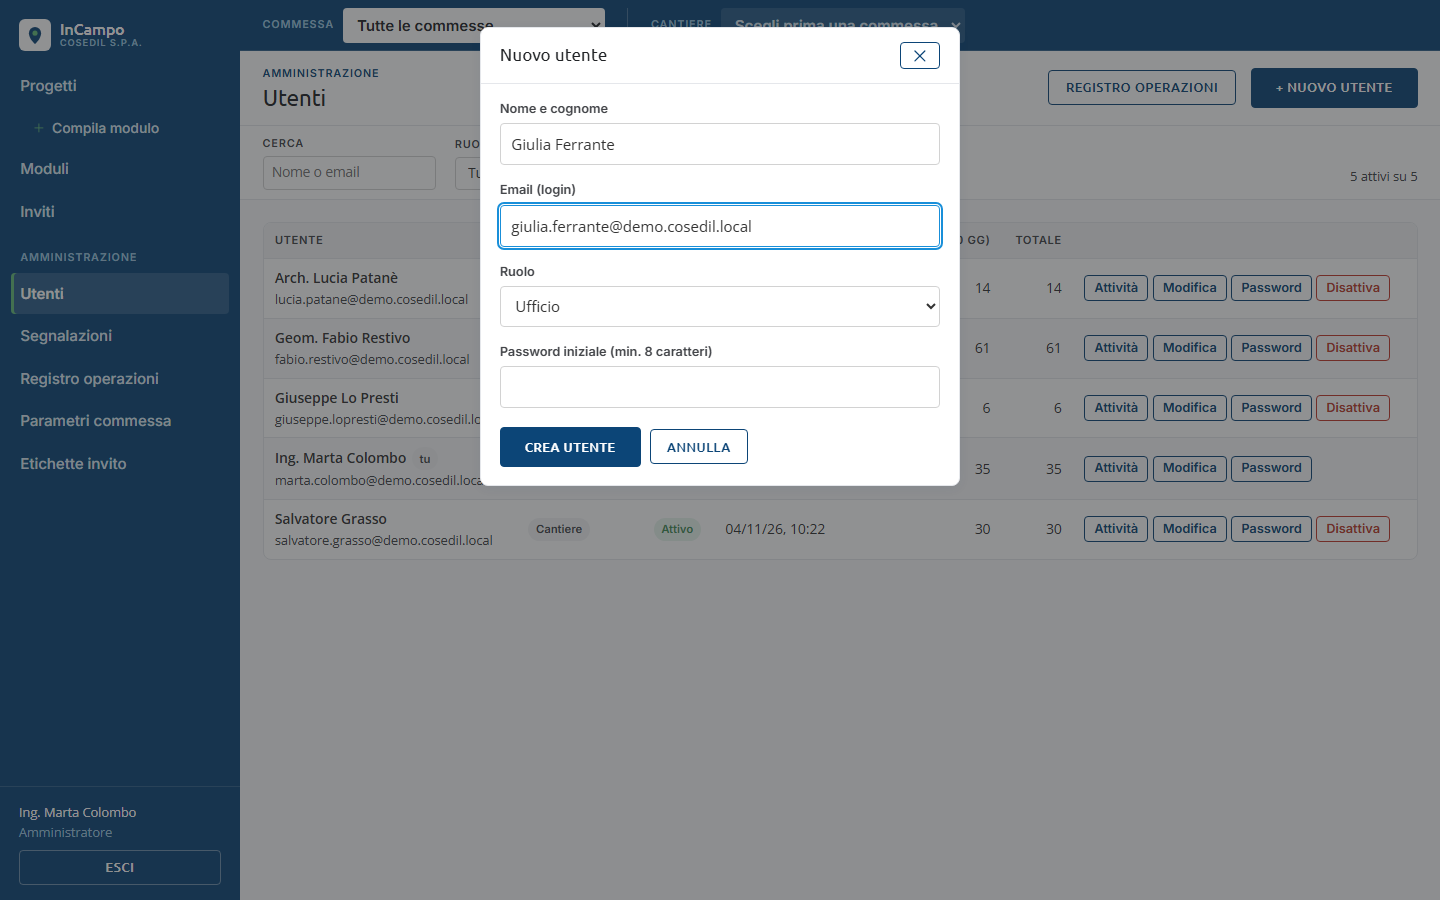
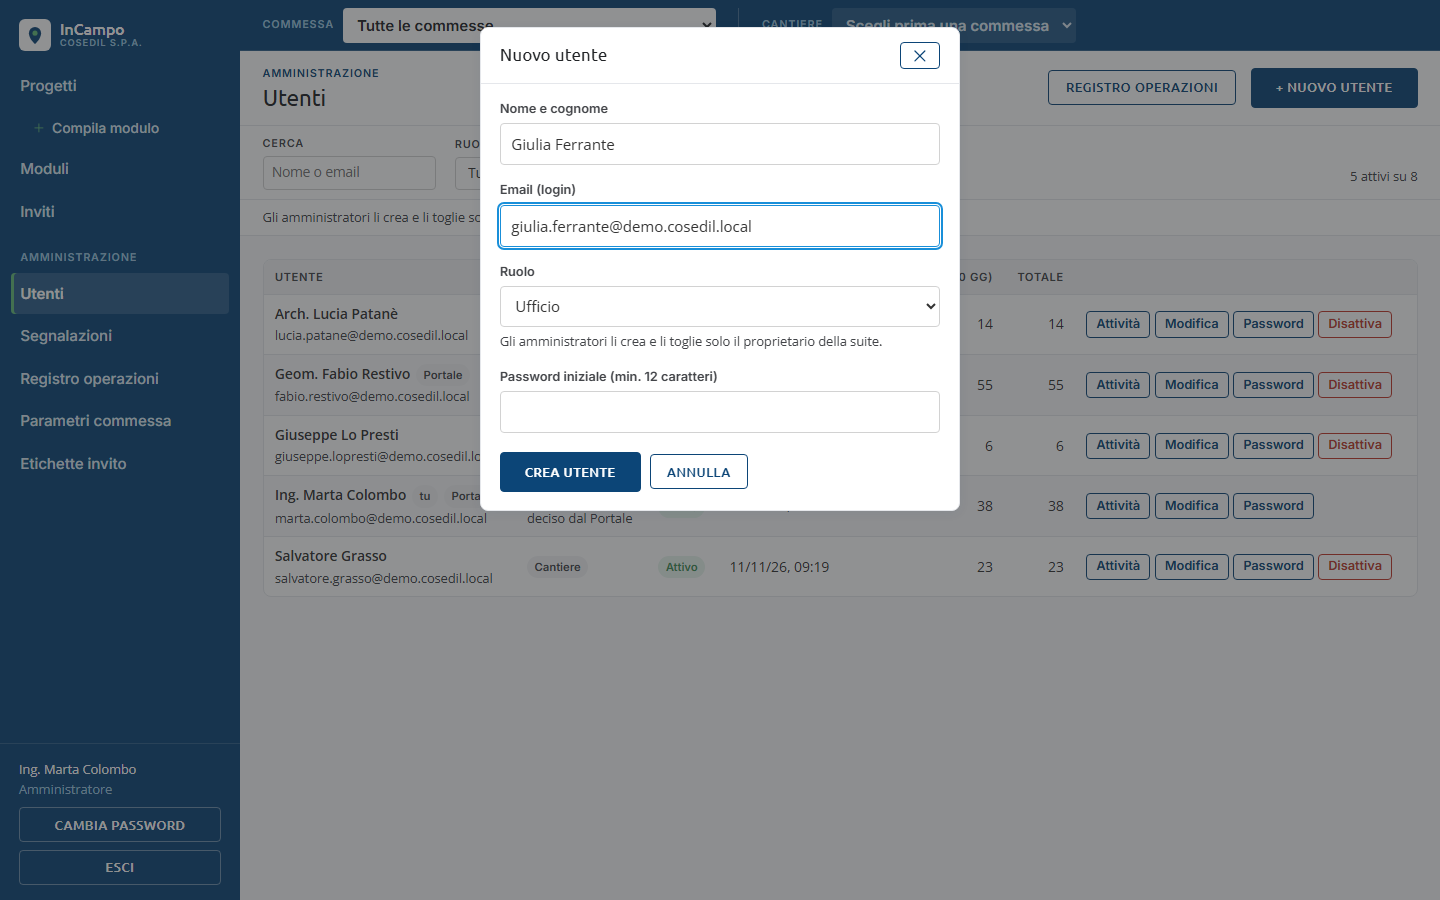
docs(incampo): guida, guida-admin e README-SUITE sugli admin decisi dal portale
Capitoli 01-accesso e 10-amministrazione, guida-admin e README-SUITE: collegamento al
portale per username, controllo del profilo a ogni login, admin dato e tolto dal portale e
gestito solo dal proprietario. Immagini 10-utenti e 10-nuovo-utente rifatte su un'istanza di
prova con dati demo e portale finto.

diff --git a/incampo/README-SUITE.md b/incampo/README-SUITE.md
@@ -101,14 +101,23 @@ variabili: `shared/suite/README.md`.
 Chi è già entrato nel Portale Suite Cosedil entra in InCampo **senza altra
 password**: il web, se non ha un token, chiama una volta `POST /api/auth/portale`,
 che legge il cookie `sid` del portale (stesso host, o stesso `SUITE_DOMINIO`) e lo
-verifica con `/api/verify?app=incampo`. L'utente InCampo è quello con la stessa
-email del portale (o lo username prima della `@`); se manca viene **creato** attivo,
-senza password usabile: admin del portale → `admin`, altrimenti
-`INCAMPO_RUOLO_PORTALE` (default `manager`). Se c'è già e nel portale è
-**amministratore** (ruolo admin), diventa `admin` anche qui: a ogni ingresso dal
-portale, con la password del portale e all'apertura del web (`GET /auth/me` con il
-cookie `sid` della stessa persona). Regola della suite del 09/11/2026; solo
-promozione, l'admin per l'app da regola IP del portale non basta. Senza email dal portale vale
+verifica con `/api/verify?app=incampo`. L'utente InCampo è quello **collegato** allo
+username del portale (`users.portale_username`, migrazione `2c3d4e5f6071`); la prima volta
+quello con la stessa email del portale (o lo username prima della `@`, mai un admin), che da
+lì resta collegato. Se manca viene **creato** attivo, collegato, senza password usabile:
+ruolo admin nel portale → `admin`, altrimenti `INCAMPO_RUOLO_PORTALE` (default `manager`).
+
+**Il profilo del portale vale in InCampo** (regola della suite dell'11/11/2026, scelte
+dell'utente "gli admin li creo e li cancello solo io", 2b 3b 4a; `suite.allinea_profilo_dal_portale`):
+a ogni ingresso dal portale (cookie, password del portale, password di InCampo, apertura
+del web con `GET /auth/me` e il cookie `sid` della stessa persona) nome ed email seguono il
+portale (un cambio email aggiorna lo stesso account, non ne crea un doppione) e
+l'amministratore è **dato e tolto** come il ruolo admin nel portale: chi lo perde riprende il
+ruolo di prima (`users.ruolo_prima_admin`) o `INCAMPO_RUOLO_PORTALE`. L'admin per l'app da
+regola IP del portale non basta mai, neanche alla creazione. Ruoli `manager`/`field`: decisi
+in InCampo (4a). Account senza utente del portale (installazione, demo, invitati): non
+toccati. Gestire gli amministratori dentro InCampo: solo il proprietario della suite (vedi
+`docs/guida-admin.md`). Senza email dal portale vale
 `<username>@<SUITE_EMAIL_DOMINIO>` (default `cosedilspa.com`). Con il portale
 spento, non loggati o `COSEDIL_SSO=off` risponde 401 e si vede il login di sempre.
 Variabili: `COSEDIL_PORTAL` (default `http://localhost:8080`), `COSEDIL_SSO`,
@@ -125,6 +134,15 @@ La password di InCampo resta valida. Il blocco di InCampo sui tentativi vale per
 due; il portale aggiunge il suo. Risposte: 403 se la password è giusta ma il portale nega
 (account disattivato, password temporanea, InCampo non abilitato), 429 se il portale ha
 bloccato i tentativi. Portale spento: vale solo la password di InCampo.
+
+Anche il login con la **password di InCampo** passa dal portale (scelte 2b e 3b dell'11/11/2026,
+`suite.controlla_login_locale`): `POST <portale>/api/suite/profilo` col token della suite
+(`{login: <username collegato o email>, app: "incampo"}`). Utente del portale disattivato o
+InCampo non abilitato → 403 col motivo (e `auth.login_failed` reason `portale` nel registro);
+account collegato il cui utente del portale non esiste più → 403; trovato → profilo applicato;
+nessun utente del portale → come prima; portale irraggiungibile → si entra, e l'accesso nel
+registro ha `portale: non verificato`. Il controllo è **solo al login** (2b): il JWT da
+`ACCESS_TOKEN_HOURS` (12 h) non richiama il portale a ogni richiesta.
 
 ### Registro unico delle commesse
 

diff --git a/incampo/docs/guida/10-amministrazione.md b/incampo/docs/guida/10-amministrazione.md
@@ -13,8 +13,9 @@ operazioni**, **Parametri commessa**, **Etichette invito**.
 
 - **Cerca** per nome o email, filtra per **Ruolo**, spunta **Mostra disattivati** per
   vedere anche chi è stato disattivato. A destra *N attivi su M*.
-- Colonne: **Utente** (nome ed email; *tu* accanto al tuo nome), **Ruolo**, **Stato**,
-  **Ultimo accesso**, **Operazioni (30 gg)** e **Totale**.
+- Colonne: **Utente** (nome ed email; *tu* accanto al tuo nome, **Portale** accanto a chi è
+  collegato a un utente del Portale), **Ruolo** (sotto un amministratore del Portale:
+  *deciso dal Portale*), **Stato**, **Ultimo accesso**, **Operazioni (30 gg)** e **Totale**.
 - Pulsanti su ogni riga:
   - **Attività**: apre il *Registro operazioni* filtrato su quella persona;
   - **Modifica**: nome e ruolo (*Utente aggiornato*);
@@ -25,10 +26,30 @@ operazioni**, **Parametri commessa**, **Etichette invito**.
   - **Disattiva** / **Riattiva**: chiede conferma (*Disattivare ...? Non potrà più accedere;
     i suoi dati restano.*). Non puoi disattivare te stesso né toglierti il ruolo di Amministratore.
 
+### Chi gestisce gli amministratori
+
+Dall'11/11/2026 gli **amministratori li crea e li toglie solo il proprietario della suite**
+(l'utente del Portale indicato come proprietario). InCampo glielo chiede ogni volta al
+Portale. Per tutti gli altri amministratori:
+
+- sopra l'elenco c'è la nota *Gli amministratori li crea e li toglie solo il proprietario della
+  suite, dal Portale*;
+- nella finestra **Modifica** o **Nuovo utente** la voce **Amministratore** è spenta, e chi è già
+  amministratore non si può portare a *Ufficio* o *Cantiere*;
+- **Password** e **Disattiva** sono spenti sulle righe degli altri amministratori (chi cambia la
+  password di un amministratore ne prende il posto);
+- le etichette d'invito col ruolo *Amministratore* le salva e le usa solo il proprietario.
+
+Per chi ha il riquadro **Portale** l'amministratore non si cambia neanche qui: lo decide il
+ruolo nel Portale, a ogni ingresso in InCampo. *Ufficio* e *Cantiere* invece si scelgono
+sempre in InCampo. Se InCampo è installato senza Portale vale la regola di prima: ogni
+amministratore gestisce gli altri.
+
 ### Nuovo utente
 
 **+ Nuovo utente** apre la finestra con **Nome e cognome**, **Email (login)**,
-**Ruolo** (*Cantiere*, *Ufficio*, *Amministratore*) e **Password iniziale (min. 12 caratteri)**.
+**Ruolo** (*Cantiere*, *Ufficio*, *Amministratore*: quest'ultimo solo per il proprietario della
+suite, vedi sopra) e **Password iniziale (min. 12 caratteri)**.
 **Crea utente** → *Utente ... creato*.
 
 ![Finestra Nuovo utente](img/10-nuovo-utente.png)

diff --git a/incampo/docs/guida/01-accesso.md b/incampo/docs/guida/01-accesso.md
@@ -15,12 +15,16 @@ alla pagina di login del Portale: prima il Portale, poi InCampo.
 
 Quando arrivi dal Portale succede una di queste due cose:
 
-1. **Entri subito, senza altra password.** InCampo chiede al Portale chi sei e cerca
-   l'account InCampo con **la stessa email** del tuo utente del Portale. L'email deve
-   essere identica: se in InCampo sei registrato con un'altra email, non ti riconosce.
+1. **Entri subito, senza altra password.** InCampo chiede al Portale chi sei e ritrova
+   il tuo account InCampo: la prima volta per **la stessa email** del tuo utente del Portale,
+   poi per il tuo **nome utente del Portale**, a cui l'account resta collegato. Se l'email
+   cambia nel Portale, InCampo la aggiorna sullo stesso account (non ne crea un altro).
    - Se l'account InCampo non c'è ancora, viene creato in quel momento con il tuo nome:
-     chi è amministratore del Portale (o amministratore di InCampo nel Portale) entra come
-     **Amministratore**, tutti gli altri come **Ufficio**. L'amministratore di InCampo può poi cambiare il ruolo.
+     chi è **amministratore del Portale** entra come **Amministratore**, tutti gli altri come
+     **Ufficio**. L'amministratore di InCampo può poi scegliere fra *Ufficio* e *Cantiere*.
+   - **Il tuo profilo del Portale vale anche qui** (dall'11/11/2026): nome, email e ruolo di
+     amministratore si aggiornano a ogni ingresso. Se nel Portale smetti di essere
+     amministratore, al prossimo ingresso in InCampo torni al ruolo che avevi prima.
    - Un account creato così **non ha una password InCampo che conosci**: sul telefono e
      nella pagina di login entri con la tua email e la **password del Portale**.
 2. **Vedi la pagina di login di InCampo.** Succede se il Portale non risponde, se
@@ -44,6 +48,13 @@ Se email o password sono sbagliate compare in rosso **Email o password errati**:
 Controlla le maiuscole e riprova. Se non ricordi la password di InCampo, prova quella
 del Portale oppure chiedi all'amministratore di InCampo di reimpostarla: non c'è un
 pulsante "password dimenticata".
+
+Anche con la password di InCampo, se hai un utente del Portale InCampo gli chiede se
+puoi entrare. Se il tuo account del Portale è stato **disattivato**, o InCampo **non è più
+fra i tuoi programmi**, il login si ferma con il motivo scritto in rosso (per esempio
+*Il tuo account del Portale è disattivato: rivolgiti a un amministratore*). Vale anche
+per l'app sul telefono. Se il Portale in quel momento non risponde, la password di
+InCampo ti fa entrare lo stesso.
 
 ## Cambiare la propria password
 

diff --git a/incampo/docs/guida-admin.md b/incampo/docs/guida-admin.md
@@ -32,8 +32,15 @@ tecnico: rotte API, installazione Docker, storage S3, backup, aggiornamenti e di
   con mittente, cantiere e pagina da cui scrivono. Ogni admin attivo riceve anche una
   notifica email/push. **Chiudi** quando è gestita (resta tra le chiuse), **Riapri** se serve.
   Massimo 10 segnalazioni l'ora per utente.
-- API equivalenti: `POST/GET/PATCH /users`, `GET /users/activity`, `GET /audit`, `GET /audit/actions`,
-  `POST/GET /support/messages`, `PATCH /support/messages/{id}`.
+- API equivalenti: `POST/GET/PATCH /users`, `GET /users/activity`, `GET /users/gestione-admin`, `GET /audit`,
+  `GET /audit/actions`, `POST/GET /support/messages`, `PATCH /support/messages/{id}`.
+- **Amministratori (dall'11/11/2026)**: dare o togliere il ruolo admin, creare un utente admin, disattivare o
+  reimpostare la password di un altro admin, salvare o usare un'etichetta d'invito col ruolo admin → solo il
+  **proprietario della suite**, chiesto al portale dal vivo (`POST <portale>/api/suite/profilo`, campo
+  `proprietario`); altrimenti 403 *Solo il proprietario della suite gestisce gli amministratori* (anche col
+  portale irraggiungibile). Per un account collegato al portale (`dal_portale`) l'admin non si cambia da qui
+  (409): lo decide il ruolo nel portale a ogni ingresso. Con `COSEDIL_SSO=off` vale la regola di prima.
+  `GET /users/gestione-admin` → `{puo_gestire_admin, motivo, portale}` per la pagina Utenti.
 
 Membri di progetto: pagina **Persone** del cantiere (`/projects/:id/persone`, admin o manager iscritto) oppure
 `POST /projects/{id}/members` con `user_id` (utente disattivato → 409; nel registro «Membro aggiunto/rimosso»).
